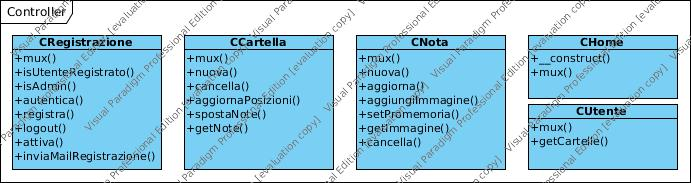
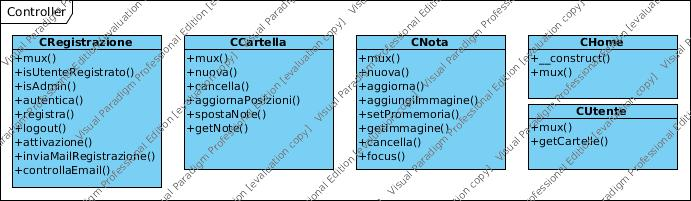
aggiornamento documentazione

diff --git a/Foundation/FRaccoglitore_note.php b/Foundation/FRaccoglitore_note.php
@@ -108,7 +108,12 @@ class FRaccoglitore_note extends Fdb {
 		$_max = $_max[0]['max(posizione)'];
 		return $this->getMaxPosizioneNotaByCartellaEUtente($_email_utente, $_id_cartella, $_max);
 	}
-	
+	/**
+	*Restituisce il risultato della query sul database
+	*@param int $_id_nota Id della nota condizione della query
+	*@param string $_email_utente Email dell'utente condizione della query
+	*@return array Array contenente il risultato della query, ovvero la nota con Id e creatore passati come parametri
+	**/
 	public function getNotaByIdEUtente($_id_nota,$_email_utente) {
 		$column = "*";
 		$keydb = array("id_nota","email_utente");
@@ -119,7 +124,11 @@ class FRaccoglitore_note extends Fdb {
 		$this->db->setParam($this->table,$keydb,$bind);
 		return $this->db->queryGenerica($column,$_paragone,$_parametri,$_operatori);
 	}
-	
+	/**
+	*Restituisce il risultato della query, ovvero il raccoglitore delle note che contiene la nota con id passato come parametro
+	*@param int $_id_nota Id della nota condizione della query
+	*@return array Array contenente il risultato della query, ovvero il raccoglitore delle note
+	**/
 	public function getRaccoglitoreByIdNota($_id_nota) {
 		$column = "*";
 		$this->db->setParam($this->table,"id_nota",":id_nota");

diff --git a/Foundation/FCartella.php b/Foundation/FCartella.php
@@ -48,7 +48,12 @@ class FCartella extends Fdb {
 		$this->db->setParam($this->table,"id",":id");
 	    return $this->db->queryGenerica("*","=",$_id);
 	}
-	
+	/**
+	* Restituisce il risultato della query, ovvero la cartella con nome e amministratore passati per parametro
+	* @param string $_nome nome della cartella da restituire
+	* @param string $_amministratore email dell'amministratore della cartella
+	* @return array contenente il risultato della query ovvero la cartella 
+	**/
 	public function getCartellaByNomeEAmministratore($_nome,$_amministratore) {
 		$column = "*";
 		$keydb = array("nome","amministratore");

diff --git a/Controller/CNota.php b/Controller/CNota.php
@@ -189,6 +189,10 @@ class CNota {
 		}
     }
     
+
+    /**
+    * Imposta la nota come Promemoria
+    **/
     public function setPromemoria() {
     	$VNota=USingleton::getInstance('VNota');
     	$dati = $VNota->getDati();
@@ -242,7 +246,9 @@ class CNota {
     		$query->rollback();
     	}
     }
-    
+    /**
+    *Funzione che controlla se qualcuno già sta modificando la nota e quindi in caso inibire le modifiche a chi sta cercando di accederci per ultimo
+    **/
     public function focus() {
     	$VNota=USingleton::getInstance('VNota');
     	$fnota=USingleton::getInstance('FNota');

diff --git a/Controller/CRegistrazione.php b/Controller/CRegistrazione.php
@@ -1,5 +1,6 @@
 <?php
 /**
+ *Classe Cregistrazione che gestisce la registrazione 
  * @package Controller
  * @author Emanuele Fianco
  * @author Fabio Di Sabatino
@@ -212,7 +213,9 @@ class CRegistrazione {
     			'Content-Transfer-Encoding: 7bit\n\n';
     	mail($to, $subject, $message, $headers);
     }
-    
+    /**
+    *Verifica se l'email risulta già stata utilizzata in fase di registrazione
+    **/
     public function controllaEmail() {
     	$VRegistrazione = USingleton::getInstance('VRegistrazione');
     	$FUtente=USingleton::getInstance('FUtente');

diff --git a/Foundation/FUtente.php b/Foundation/FUtente.php
@@ -21,6 +21,7 @@ Class FUtente extends Fdb {
 	    $this->keydb="(username,password,id_immagine,nome,cognome,email,codice_attivazione,stato_attivazione,tipo_utente)";
 	    $this->bind="(:username,:password,:id_immagine,:nome,:cognome,:email,:codice_attivazione,:stato_attivazione,:tipo_utente)";
 	}
+	
 	/**
 	 * Inserisce un'utente nel database
 	 * @param EUtente $_object Utente da inserire
